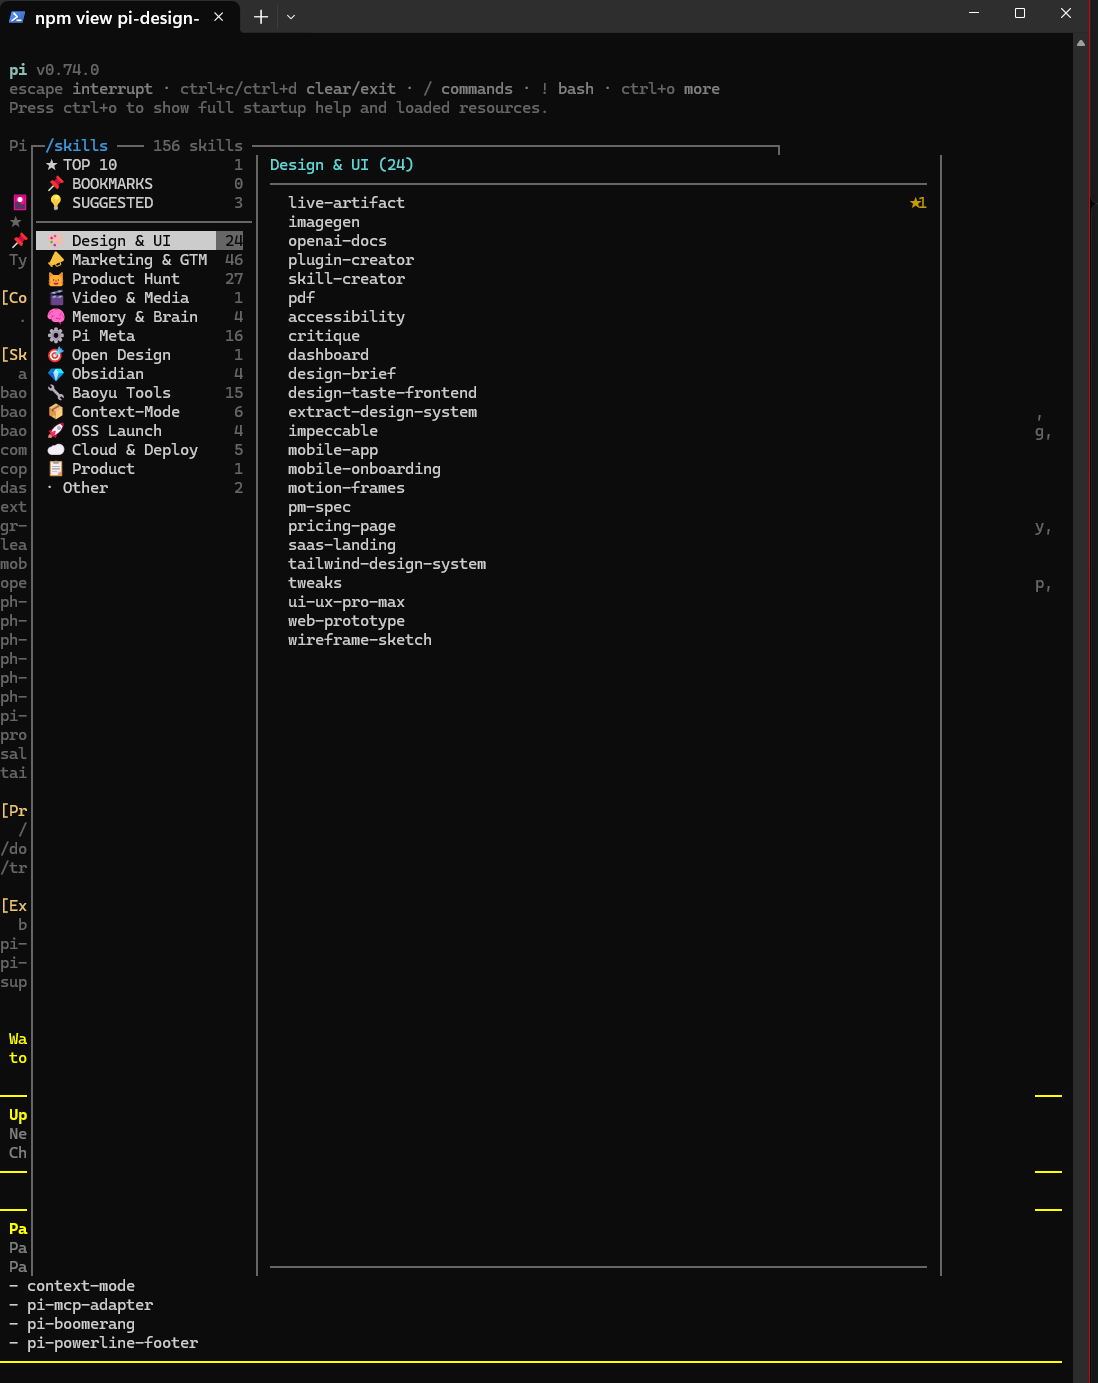
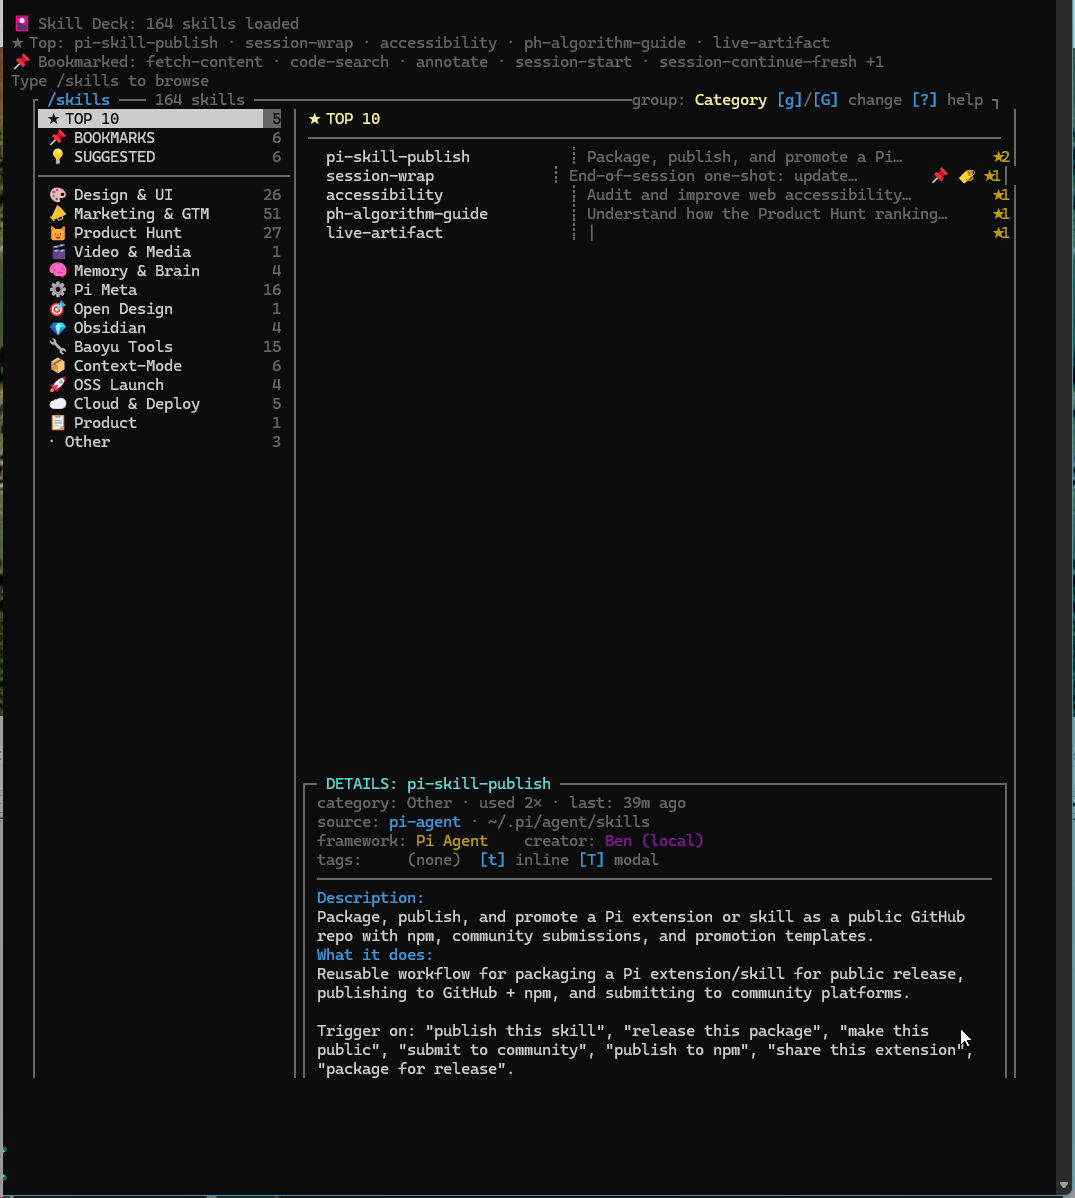
docs(release): v0.2.1 — update descriptions, add pi-skill-publish SKILL.md, refresh preview.png

diff --git a/.pi/skills/pi-skill-publish/SKILL.md b/.pi/skills/pi-skill-publish/SKILL.md
@@ -1,0 +1,257 @@
+---
+name: pi-skill-publish
+description: Reusable workflow for packaging a Pi extension/skill for public release, publishing to GitHub + npm, and submitting to community platforms.
+---
+
+# Pi Skill Publish
+
+Reusable workflow for packaging a Pi extension/skill for public release, publishing
+to GitHub + npm, and submitting to community platforms.
+
+## When to Use
+
+Trigger on: "publish this skill", "release this package", "make this public",
+"submit to community", "publish to npm", "share this extension", "package for release".
+
+## Workflow
+
+### Step 1: Validate Package
+
+Check the project root for required files:
+
+| File | Required | Check |
+|------|----------|-------|
+| `package.json` | ✅ | Must have `name`, `version`, `description`, `"keywords": ["pi-package"]`, `license`, `repository.url`, `"pi": { "extensions": [...] }` |
+| `README.md` | ✅ | Must exist and include: feature list, install command, usage, screenshot/preview |
+| `LICENSE` | ✅ | Must exist (MIT recommended for Pi ecosystem) |
+| `index.ts` or extension entry | ✅ | Must match `pi.extensions` path in package.json |
+| `.gitignore` | ⚠️ | Recommended: `node_modules/`, `*.log`, `.DS_Store` |
+| `CHANGELOG.md` | ⚠️ | Recommended for releases after v0.1.0 |
+
+**Validation actions:**
+1. Read `package.json` and verify all required fields
+2. If `"keywords"` doesn't include `"pi-package"`, add it (required for pi.dev/packages discovery)
+3. Ensure `repository.url` points to the correct GitHub URL
+4. Verify the extension entry file exists and exports a default function
+5. Check README has an `## Installation` section with `pi install` command
+
+Report any issues before proceeding. Fix automatically if confidence ≥ 90%.
+
+### Step 2: Polish README
+
+Ensure the README contains these sections in order:
+
+```markdown
+# {emoji} {package-name}
+> One-line description
+
+![preview](preview.png)    ← screenshot/preview image
+
+## ✨ Features                ← bullet list of capabilities
+## 📦 Installation            ← pi install command + manual settings.json
+## 🚀 Usage                   ← slash command + keyboard shortcuts
+## 🔍 How it works            ← technical details (optional but recommended)
+## ⚙️ Configuration           ← customization options (if any)
+## 🤝 Contributing            ← PR welcome note
+## 📄 License                 ← license + author link
+```
+
+**Screenshot handling:**
+- If user provides a screenshot/image, copy it to the repo root as `preview.png`
+- Add `![preview](preview.png)` after the tagline in README
+- The raw GitHub URL (`https://raw.githubusercontent.com/{owner}/{repo}/{branch}/preview.png`) is used for external embeds
+
+### Step 3: Publish to GitHub
+
+```bash
+# 1. Stage and commit any changes from Steps 1-2
+cd {project_root}
+git add -A
+git commit -m "docs: prepare for public release v{version}"
+
+# 2. Create public GitHub repo (if not exists)
+gh repo create {owner}/{repo} \
+  --public \
+  --source=. \
+  --remote=origin \
+  --description="{description}" \
+  --push
+
+# 3. Tag and create release
+git tag v{version}
+git push origin v{version}
+gh release create v{version} \
+  --title "v{version} — {release_title}" \
+  --notes "{release_notes}"
+```
+
+### Step 4: Publish to npm (optional but recommended)
+
+npm publish is the primary gateway to:
+- **pi.dev/packages** — the official Pi package catalog (auto-discovers `pi-package` keyword)
+- **awesome-pi-coding-agent** — auto-generated community directory (scrapes npm daily)
+
+```bash
+# Check npm auth
+npm whoami
+
+# If not logged in:
+npm login
+# or: npm adduser
+
+# Publish (public, unscoped)
+npm publish --access public
+```
+
+**If user is not logged into npm:** Flag it as a manual follow-up action.
+Do NOT block the rest of the workflow on npm auth.
+
+### Step 4b: Publish to GitHub Packages (mandatory)
+
+**Always dual-publish to GitHub Packages** so the package appears on Ben's
+GitHub profile Packages tab. This runs immediately after Step 4.
+
+```powershell
+cd {project_root}
+$GH_TOKEN = gh auth token
+
+# Temp .npmrc for GitHub Packages auth
+"@cymatistatic:registry=https://npm.pkg.github.com`n//npm.pkg.github.com/:_authToken=$GH_TOKEN" | Set-Content .npmrc
+
+# Temporarily scope the package name
+node -e "const fs=require('fs'); const p=JSON.parse(fs.readFileSync('package.json','utf8')); fs.writeFileSync('package.json.bak',JSON.stringify(p,null,2)); p.name='@cymatistatic/'+p.name.replace('@cymatistatic/',''); p.publishConfig={registry:'https://npm.pkg.github.com'}; fs.writeFileSync('package.json',JSON.stringify(p,null,2));"
+
+# Publish to GitHub Packages
+npm publish
+
+# Restore original package.json and clean up
+mv package.json.bak package.json
+rm .npmrc
+```
+
+**Requires:** `gh auth` must have `write:packages` scope.
+If missing: `gh auth refresh -h github.com -s write:packages`
+
+**Verify:** `gh api user/packages?package_type=npm --jq '.[].name'`
+
+### Step 5: Submit to Communities
+
+Execute all applicable submissions:
+
+#### 5a. Pi GitHub Discussions (earendel-works/pi)
+
+Create a showcase post in the General category:
+
+```bash
+gh api graphql -f query='mutation {
+  createDiscussion(input: {
+    repositoryId: "R_kgDOPbFNkw",
+    categoryId: "DIC_kwDOPbFNk84Cz0vb",
+    title: "{emoji} {package-name} — {short_description}",
+    body: "{discussion_body}"
+  }) { discussion { url } }
+}'
+```
+
+Discussion body template:
+```markdown
+## {package-name}
+
+{one-paragraph description}
+
+![preview](https://raw.githubusercontent.com/{owner}/{repo}/{branch}/preview.png)
+
+### Features
+{bullet list}
+
+### Install
+\```
+pi install {owner}/{repo}
+\```
+
+Or add to `~/.pi/agent/settings.json`:
+\```json
+"packages": ["github:{owner}/{repo}"]
+\```
+
+Then type `/{command}` in any Pi session.
+
+**Repo:** https://github.com/{owner}/{repo}
+**License:** {license}
+```
+
+#### 5b. awesome-pi-coding-agent (if on npm)
+
+The [awesome-pi-coding-agent](https://github.com/shaftoe/awesome-pi-coding-agent) list
+auto-discovers npm packages with the `pi-package` keyword daily. If the package is
+published to npm, it will appear automatically — no PR needed.
+
+If NOT on npm, open a PR to add a manual entry:
+
+```bash
+gh repo fork shaftoe/awesome-pi-coding-agent --clone
+# Add entry to README.md under ## Extensions section
+# Follow the table format: | Health | Name | Description | Popularity | Updated |
+gh pr create --title "Add {package-name}" --body "..."
+```
+
+#### 5c. Reddit / Social (optional templates)
+
+**r/PiCodingAgent post:**
+```
+🎴 pi-skill-deck — categorized skill browser with bookmarks & frecency
+
+Replaces the flat skill list with a two-pane TUI. Features:
+- Categories, search, bookmarks (Ctrl+B), Top 10, daily suggestions
+- Scans all standard skill locations automatically
+
+Install: `pi install {owner}/{repo}`
+Repo: https://github.com/{owner}/{repo}
+```
+
+**Twitter/X post:**
+```
+🎴 Just shipped {package-name} for @PiCodingAgent
+
+{one-line pitch}
+
+pi install {owner}/{repo}
+
+{screenshot_url}
+```
+
+### Step 6: Report
+
+```
+[PUBLISH REPORT]
+Package:     {package-name} v{version}
+GitHub:      https://github.com/{owner}/{repo} ✅
+Release:     v{version} ✅
+npm:         {published | ⚠️ needs npm login}
+Discussion:  {url} ✅
+Awesome PR:  {url | skipped (not on npm)}
+Reddit:      {posted | template ready}
+
+Follow-up:
+- [ ] npm login + npm publish (for pi.dev/packages auto-discovery)
+- [ ] Post to Reddit/X/Discord
+```
+
+## Community Submission Targets (Reference)
+
+| Platform | URL | How to submit |
+|----------|-----|---------------|
+| pi.dev/packages | https://pi.dev/packages | Auto-discovered from npm (`pi-package` keyword) |
+| awesome-pi-coding-agent | https://github.com/shaftoe/awesome-pi-coding-agent | Auto from npm; manual PR for GitHub-only |
+| Pi Discussions | https://github.com/earendil-works/pi/discussions | Create discussion (General category) |
+| skills.sh | https://skills.sh | `npx skills publish` (for SKILL.md-based skills) |
+| Reddit | r/PiCodingAgent | Post with template |
+| X / Twitter | — | Post with screenshot |
+| Discord | Pi community server | Share in #showcase or #extensions |
+
+## Notes
+
+- The `pi-package` keyword in `package.json` is critical — it's how pi.dev/packages auto-discovers extensions
+- GitHub-only packages work for `pi install github:{owner}/{repo}` but miss the npm auto-discovery channels
+- npm publish unlocks 3 distribution channels at once (pi.dev, awesome list, npm search)
+- Always include a screenshot — visual packages get significantly more engagement

diff --git a/CHANGELOG.md b/CHANGELOG.md
@@ -7,6 +7,73 @@ and this project adheres to [Semantic Versioning](https://semver.org/spec/v2.0.0
 
 ---
 
+## [0.2.1] — 2026-05-28
+
+### Added
+- **Discoverable key hints** — every interactive feature now shows its key
+  chip inline:
+  - Header right side: `group: <mode> [g]/[G] change  [?] help`
+  - DETAILS box tags row: `tags: ...  [t] inline  [T] modal`
+  - Footer keys are now in bright cyan `[...]` chips instead of dim text.
+- **`?` keyboard reference panel** — sectioned modal (Navigation · Group-by
+  · Skill actions · Search & exit). Toggle from anywhere with `?` or `Esc`.
+
+### Changed
+- Footer contrast inverted: keys are now the eye-catcher, labels are dim.
+- `keyHint()` helper centralizes chip rendering across header / footer /
+  details / modals so the visual style is consistent.
+
+---
+
+## [0.2.0] — 2026-05-27
+
+### Added
+- **8 group-by modes** — cycle with `g`, pick from menu with `G`:
+  - Category (default) · Source · Framework · Creator · Location · Tag
+    · Usage Tier (Power/Active/Tried/Unused) · Flat
+  - Selection persisted to `~/.pi/agent/skill-deck-prefs.json`.
+- **Per-skill tagging** — free-form tags, two editor styles available
+  simultaneously:
+  - `t` · inline editor (replaces footer)
+  - `T` (shift+t) · modal editor (floating centered box)
+  - Tags stored in `~/.pi/agent/skill-tags.json`. Can drive group-by.
+- **Source attribution** — every skill now carries
+  `{ origin, location, framework, creator }`:
+  - Detected from npm-package path > known install root > agents-pack
+    sub-library > name-prefix hint.
+  - Sub-libraries mapped: `marketing/` → Corey Haines, `producthunt/`
+    → yoanbernabeu, `oss-launch/` → gingiris, `microsoft-foundry/`
+    → Microsoft.
+  - Name hints: `baoyu-*` → 宝玉 (baoyu), `ctx-*` → Mario Zechner /
+    context-mode, `ph-*` → yoanbernabeu, `gr-*` → gingiris.
+- **Expanded DETAILS box** — now shows source row, framework + creator
+  row, tags row, separated **Description** block (frontmatter), and a
+  **What it does** block (SKILL.md body excerpt).
+- **⚠ Thin-body flag** — surfaces skills whose SKILL.md body is missing
+  or fragmentary (just code/lists/heading). Visible as a `⚠` next to
+  the skill name in the list AND inside the DETAILS box. Current scan
+  flags ~20 of ~157 skills.
+
+### Internal
+- New files: `source.ts`, `body.ts`, `tags.ts`, `groupings.ts`.
+- `scan.ts` now attaches `source` + body excerpt to every Skill.
+- `state.ts` gains `getPrefs` / `setPrefs` for persistent preferences.
+- `overlay.ts` rewritten: pluggable section building, dual tag editors,
+  group-by picker modal, expanded detail-box renderer.
+- `body.ts:extractBodyFromContent()` prefers an explicit About / Overview
+  / What-it-does / Purpose / Summary / Usage heading, then falls back to
+  the first 1-2 prose paragraphs (skipping code, lists, blockquotes,
+  tables, headings, metadata lines).
+
+### Backward compatibility
+- Old state files (`skill-usage.json`, `skill-bookmarks.json`,
+  `skill-suggestion.json`) are read as-is. No migration needed.
+- New prefs files are created lazily on first write.
+- Default group-by is still Category, so first-time experience for
+  upgrading users is identical to 0.1.x.
+
+---
+
 ## [0.1.1] — 2026-05-27
 
 ### Added
@@ -51,5 +118,7 @@ and this project adheres to [Semantic Versioning](https://semver.org/spec/v2.0.0
 - `/skills` and `/skill-deck` slash commands.
 - Selected skill is injected as a context message before the next agent turn.
 
+[0.2.1]: https://github.com/CymatiStatic/pi-skill-deck/releases/tag/v0.2.1
+[0.2.0]: https://github.com/CymatiStatic/pi-skill-deck/releases/tag/v0.2.0
 [0.1.1]: https://github.com/CymatiStatic/pi-skill-deck/releases/tag/v0.1.1
 [0.1.0]: https://github.com/CymatiStatic/pi-skill-deck/releases/tag/v0.1.0